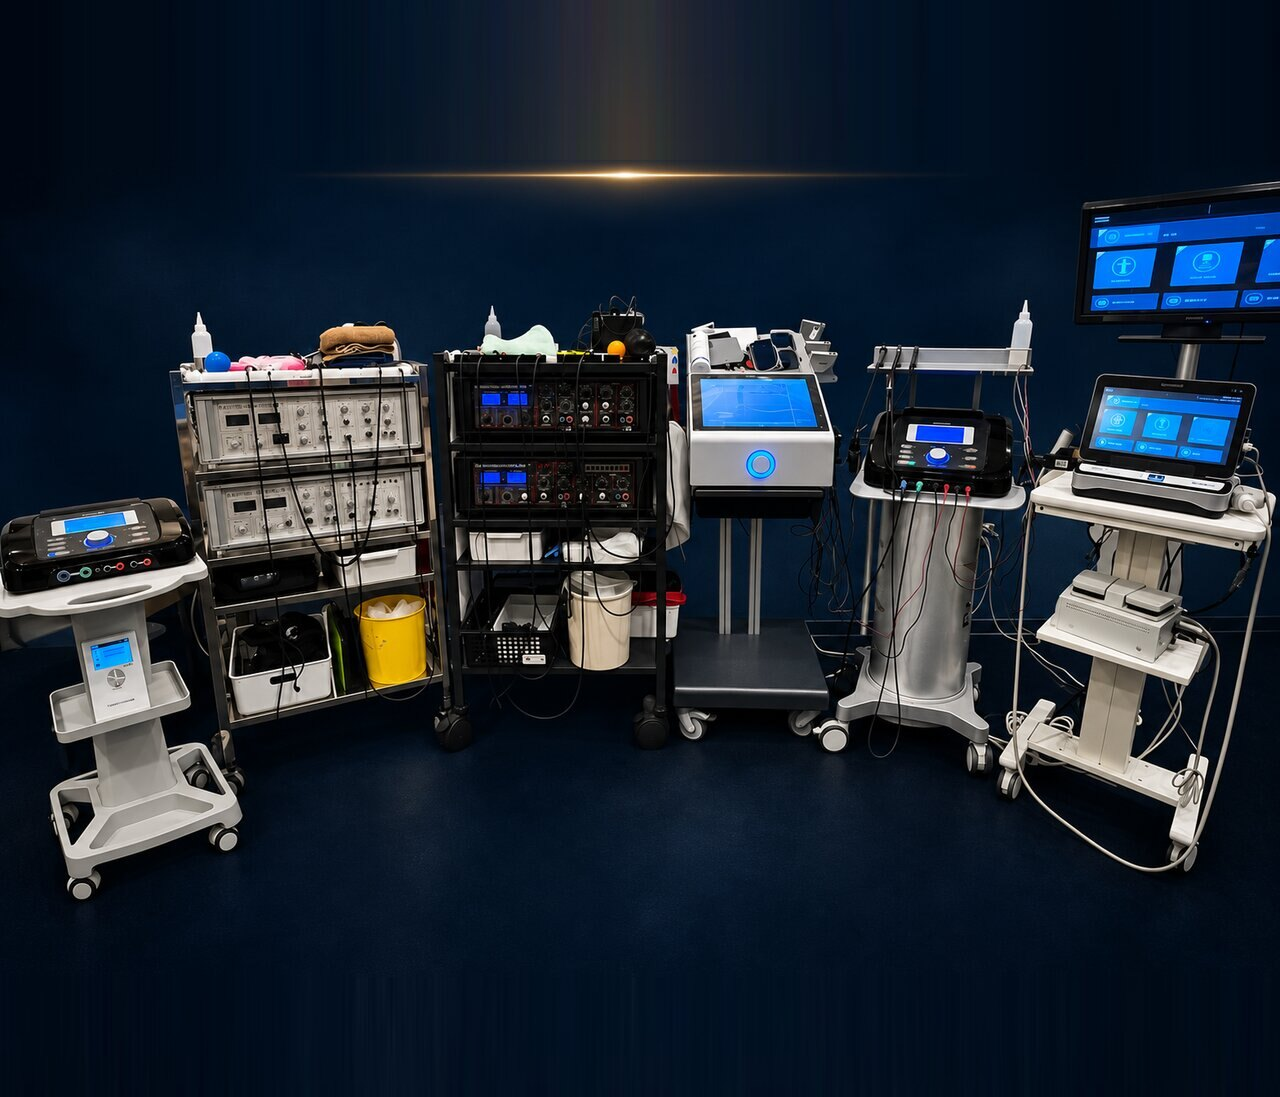
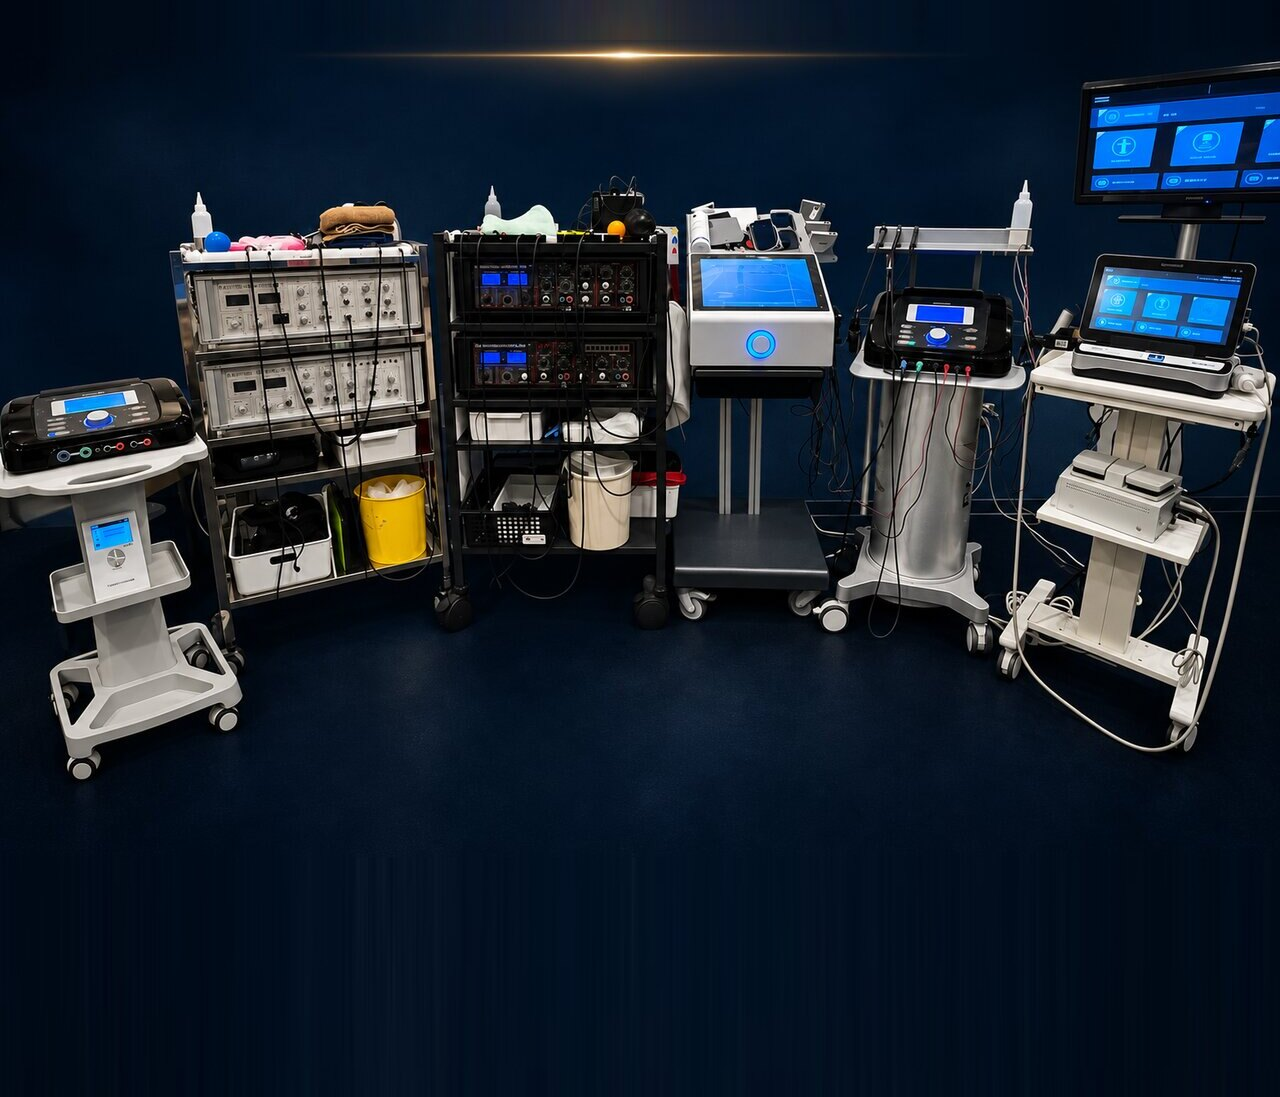
LP：機器名を写真下部のネイビー帯に羅列（散らしラベルをやめ一覧に） (#113)
・各機器への散らしラベルをやめ、写真下部のネイビー帯に機器名を一覧表示（白い半透明チップ）
・写真の下部ネイビー帯を広げて羅列スペースを確保（dev-lineup.jpg、?v=3）
・機器名はテキストで残しSEO維持
・CSSキャッシュバスターを更新（style.css am）

Claude-Session: https://claude.ai/code/session_015muQPYJe3hHtMJQipvfh7d

diff --git a/sports.html b/sports.html
@@ -23,7 +23,7 @@
   <link rel="preconnect" href="https://fonts.gstatic.com" crossorigin />
   <link href="https://fonts.googleapis.com/css2?family=Noto+Sans+JP:wght@300;400;500;700&family=Noto+Serif+JP:wght@300;400;500;600&display=swap" rel="stylesheet" />
 
-  <link rel="stylesheet" href="assets/css/style.css?v=20260618al" />
+  <link rel="stylesheet" href="assets/css/style.css?v=20260618am" />
   <noscript>
     <style>.reveal{opacity:1 !important;transform:none !important;filter:none !important;}</style>
   </noscript>
@@ -197,14 +197,17 @@
         <h3 class="devgrid-title">症状や回復段階に合わせて、<br />機器を使い分けています。</h3>
       </div>
       <figure class="devlineup reveal">
-        <img src="assets/images/dev-lineup.jpg?v=2" alt="阿部接骨院に導入している施術機器のラインナップ（ブラックアキュスコープ・ブラックマイオパルス・アキュスコープ・マイオパルス・エレサス・ハイチャージNEO・ディープオシレーション・エコー観察装置）" loading="lazy" decoding="async" />
-        <span class="devtag" style="left:20%;top:8%">アキュスコープ<br>マイオパルス</span>
-        <span class="devtag" style="left:46%;top:8%">ブラックアキュスコープ<br>ブラックマイオパルス</span>
-        <span class="devtag" style="left:8%;top:41%">エレサス</span>
-        <span class="devtag" style="left:70%;top:33%">エレサス</span>
-        <span class="devtag" style="left:85%;top:25%">エコー観察装置</span>
-        <span class="devtag" style="left:50%;top:80%">ハイチャージNEO</span>
-        <span class="devtag" style="left:16%;top:85%">ディープオシレーション</span>
+        <img src="assets/images/dev-lineup.jpg?v=3" alt="阿部接骨院に導入している施術機器のラインナップ（ブラックアキュスコープ・ブラックマイオパルス・アキュスコープ・マイオパルス・エレサス・ハイチャージNEO・ディープオシレーション・エコー観察装置）" loading="lazy" decoding="async" />
+        <ul class="devnamebar">
+          <li>アキュスコープ</li>
+          <li>マイオパルス</li>
+          <li>ブラックアキュスコープ</li>
+          <li>ブラックマイオパルス</li>
+          <li>エレサス</li>
+          <li>ハイチャージNEO</li>
+          <li>ディープオシレーション</li>
+          <li>エコー観察装置</li>
+        </ul>
       </figure>
       <p class="devgrid-note reveal">アメリカ研修では、現地のトレーナーに「MLBの球団よりそろっているね」と言われたことも。</p>
     </div>

diff --git a/assets/css/style.css b/assets/css/style.css
@@ -2296,11 +2296,19 @@ body.is-modal-open { overflow: hidden; }
   box-shadow: 0 18px 42px -28px rgba(10,20,40,0.7); background: #0e1a30;
 }
 .devlineup img { width: 100%; height: auto; display: block; }
-.devtag {
-  position: absolute; transform: translateX(-50%); pointer-events: none; text-align: center;
-  font-family: var(--sans); font-weight: 800; white-space: nowrap; line-height: 1.25;
-  letter-spacing: 0.01em; font-size: clamp(0.58rem, 2.5vw, 0.82rem); color: #fff;
-  text-shadow: 0 1px 4px rgba(0,0,0,0.95), 0 0 10px rgba(5,12,26,0.7);
+.devnamebar {
+  position: absolute; inset-inline: 0; inset-block-end: clamp(10px, 3vw, 18px);
+  list-style: none; margin: 0; padding: 0 clamp(8px, 3vw, 16px);
+  display: flex; flex-wrap: wrap; justify-content: center; align-items: center;
+  gap: clamp(5px, 1.6vw, 7px);
+}
+.devnamebar li {
+  font-family: var(--sans); font-weight: 700; letter-spacing: 0.01em;
+  font-size: clamp(0.58rem, 2.5vw, 0.8rem); color: #fff; white-space: nowrap;
+  background: rgba(255,255,255,0.14); border: 1px solid rgba(255,255,255,0.4);
+  border-radius: 999px; padding: 0.3em 0.78em;
+  -webkit-backdrop-filter: blur(3px); backdrop-filter: blur(3px);
+  box-shadow: 0 2px 8px rgba(0,0,0,0.3);
 }
 .devnames {
   list-style: none; margin: clamp(16px, 4vw, 24px) 0 0; padding: 0;

diff --git a/blog/america-training.html b/blog/america-training.html
@@ -23,7 +23,7 @@
   <link rel="preconnect" href="https://fonts.gstatic.com" crossorigin />
   <link href="https://fonts.googleapis.com/css2?family=Noto+Sans+JP:wght@300;400;500;700&family=Noto+Serif+JP:wght@300;400;500;600&display=swap" rel="stylesheet" />
 
-  <link rel="stylesheet" href="../assets/css/style.css?v=20260618al" />
+  <link rel="stylesheet" href="../assets/css/style.css?v=20260618am" />
   <noscript>
     <style>.reveal{opacity:1 !important;transform:none !important;filter:none !important;}</style>
   </noscript>

diff --git a/blog/body-function-movement.html b/blog/body-function-movement.html
@@ -23,7 +23,7 @@
   <link rel="preconnect" href="https://fonts.gstatic.com" crossorigin />
   <link href="https://fonts.googleapis.com/css2?family=Noto+Sans+JP:wght@300;400;500;700&family=Noto+Serif+JP:wght@300;400;500;600&display=swap" rel="stylesheet" />
 
-  <link rel="stylesheet" href="../assets/css/style.css?v=20260618al" />
+  <link rel="stylesheet" href="../assets/css/style.css?v=20260618am" />
   <noscript>
     <style>.reveal{opacity:1 !important;transform:none !important;filter:none !important;}</style>
   </noscript>

diff --git a/blog/highcharge-neo.html b/blog/highcharge-neo.html
@@ -23,7 +23,7 @@
   <link rel="preconnect" href="https://fonts.gstatic.com" crossorigin />
   <link href="https://fonts.googleapis.com/css2?family=Noto+Sans+JP:wght@300;400;500;700&family=Noto+Serif+JP:wght@300;400;500;600&display=swap" rel="stylesheet" />
 
-  <link rel="stylesheet" href="../assets/css/style.css?v=20260618al" />
+  <link rel="stylesheet" href="../assets/css/style.css?v=20260618am" />
   <noscript>
     <style>.reveal{opacity:1 !important;transform:none !important;filter:none !important;}</style>
   </noscript>

diff --git a/blog/jutsugo-deep-oscillation.html b/blog/jutsugo-deep-oscillation.html
@@ -23,7 +23,7 @@
   <link rel="preconnect" href="https://fonts.gstatic.com" crossorigin />
   <link href="https://fonts.googleapis.com/css2?family=Noto+Sans+JP:wght@300;400;500;700&family=Noto+Serif+JP:wght@300;400;500;600&display=swap" rel="stylesheet" />
 
-  <link rel="stylesheet" href="../assets/css/style.css?v=20260618al" />
+  <link rel="stylesheet" href="../assets/css/style.css?v=20260618am" />
   <noscript>
     <style>.reveal{opacity:1 !important;transform:none !important;filter:none !important;}</style>
   </noscript>

diff --git a/blog/nenza-recovery.html b/blog/nenza-recovery.html
@@ -23,7 +23,7 @@
   <link rel="preconnect" href="https://fonts.gstatic.com" crossorigin />
   <link href="https://fonts.googleapis.com/css2?family=Noto+Sans+JP:wght@300;400;500;700&family=Noto+Serif+JP:wght@300;400;500;600&display=swap" rel="stylesheet" />
 
-  <link rel="stylesheet" href="../assets/css/style.css?v=20260618al" />
+  <link rel="stylesheet" href="../assets/css/style.css?v=20260618am" />
   <noscript>
     <style>.reveal{opacity:1 !important;transform:none !important;filter:none !important;}</style>
   </noscript>

diff --git a/blog/oyagosan-no-koe.html b/blog/oyagosan-no-koe.html
@@ -23,7 +23,7 @@
   <link rel="preconnect" href="https://fonts.gstatic.com" crossorigin />
   <link href="https://fonts.googleapis.com/css2?family=Noto+Sans+JP:wght@300;400;500;700&family=Noto+Serif+JP:wght@300;400;500;600&display=swap" rel="stylesheet" />
 
-  <link rel="stylesheet" href="../assets/css/style.css?v=20260618al" />
+  <link rel="stylesheet" href="../assets/css/style.css?v=20260618am" />
   <noscript>
     <style>.reveal{opacity:1 !important;transform:none !important;filter:none !important;}</style>
   </noscript>

diff --git a/index.html b/index.html
@@ -23,7 +23,7 @@
   <link rel="preconnect" href="https://fonts.gstatic.com" crossorigin />
   <link href="https://fonts.googleapis.com/css2?family=Noto+Sans+JP:wght@300;400;500;700&family=Noto+Serif+JP:wght@300;400;500;600&display=swap" rel="stylesheet" />
 
-  <link rel="stylesheet" href="assets/css/style.css?v=20260618al" />
+  <link rel="stylesheet" href="assets/css/style.css?v=20260618am" />
   <noscript>
     <style>.reveal{opacity:1 !important;transform:none !important;filter:none !important;}</style>
   </noscript>
